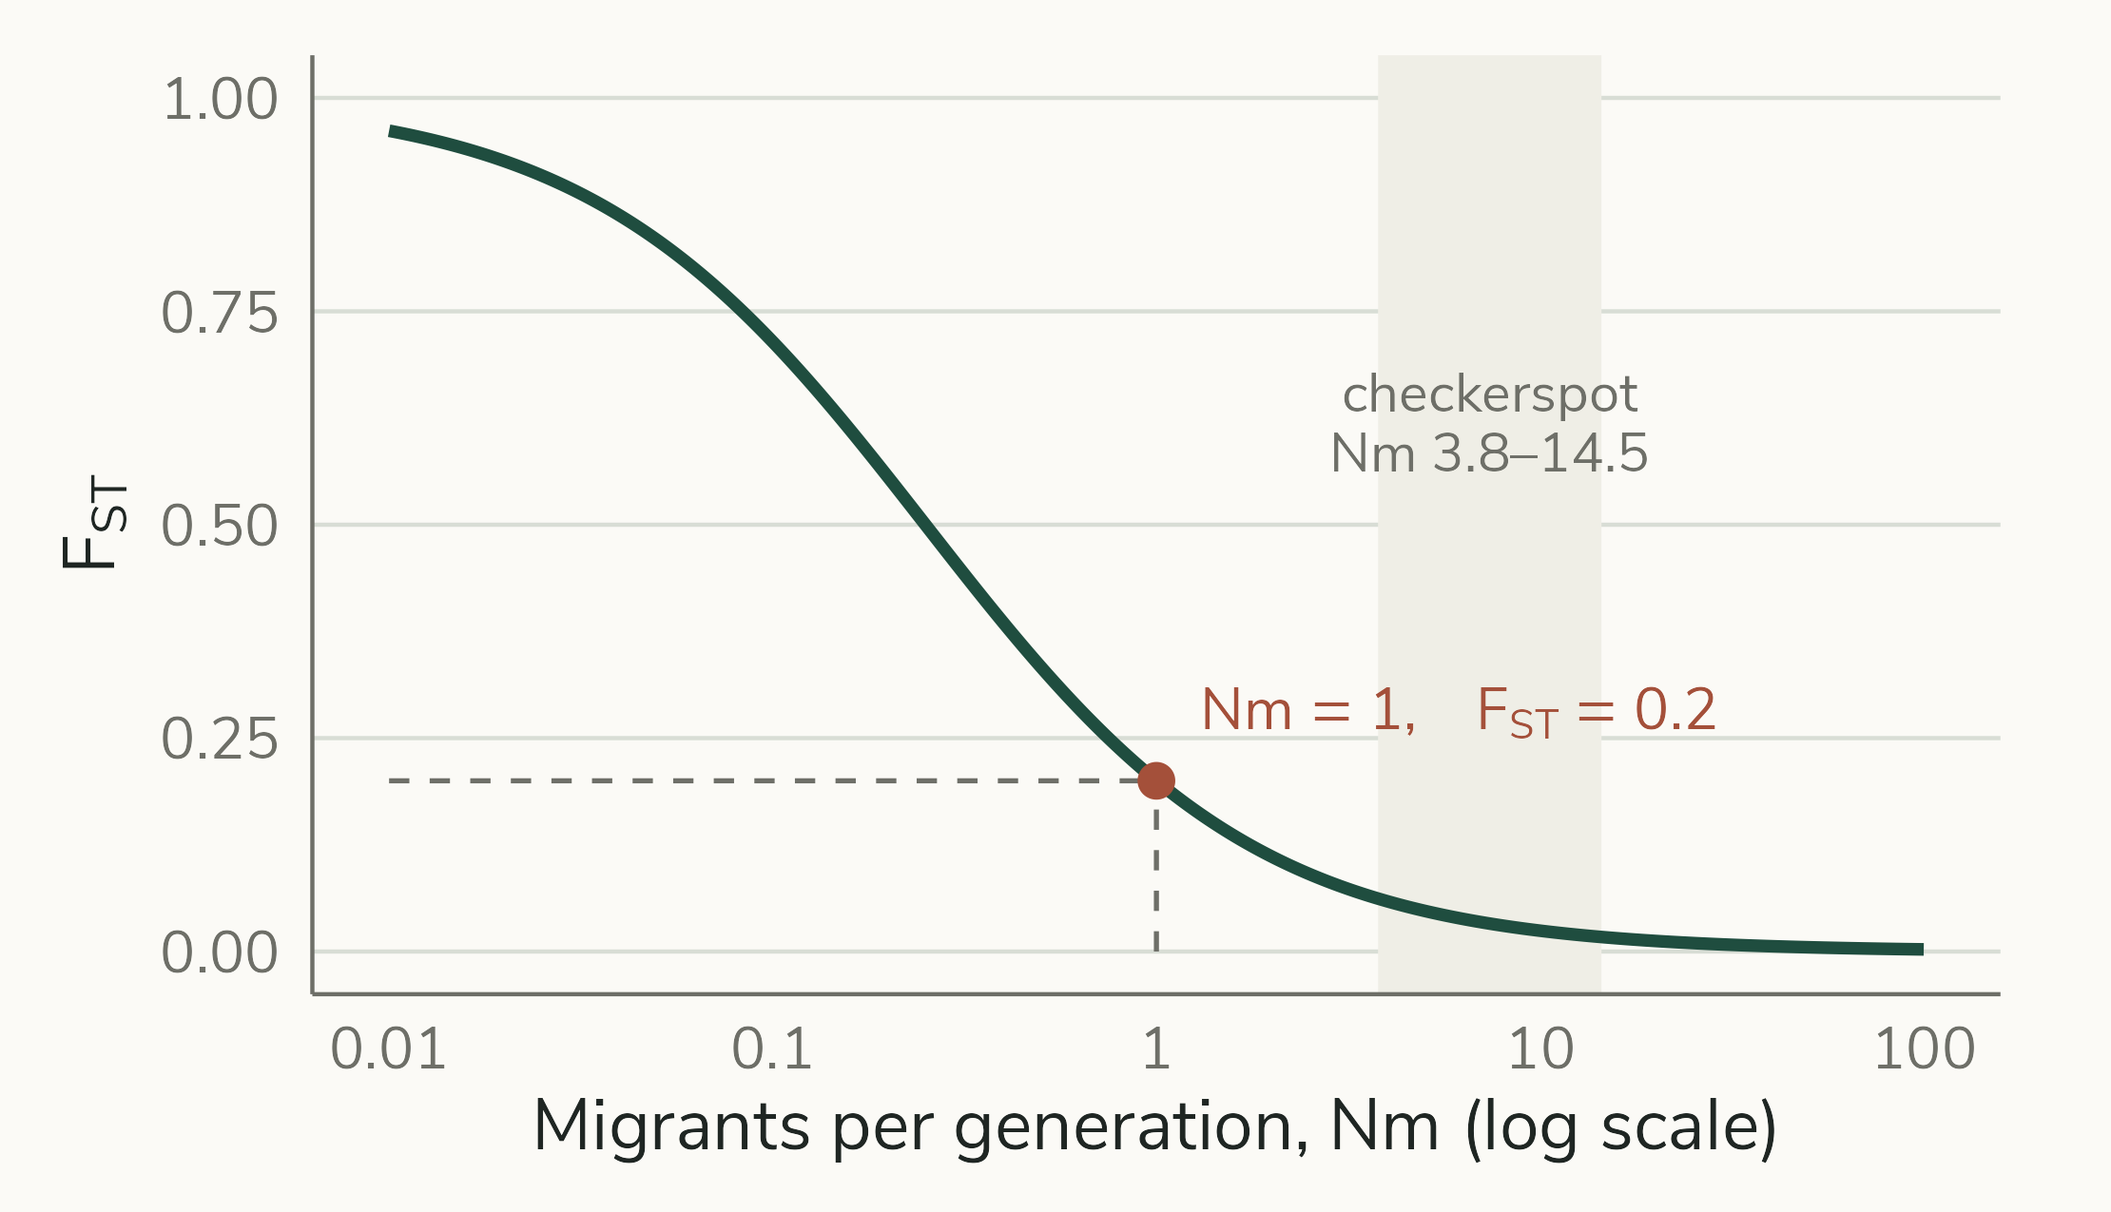
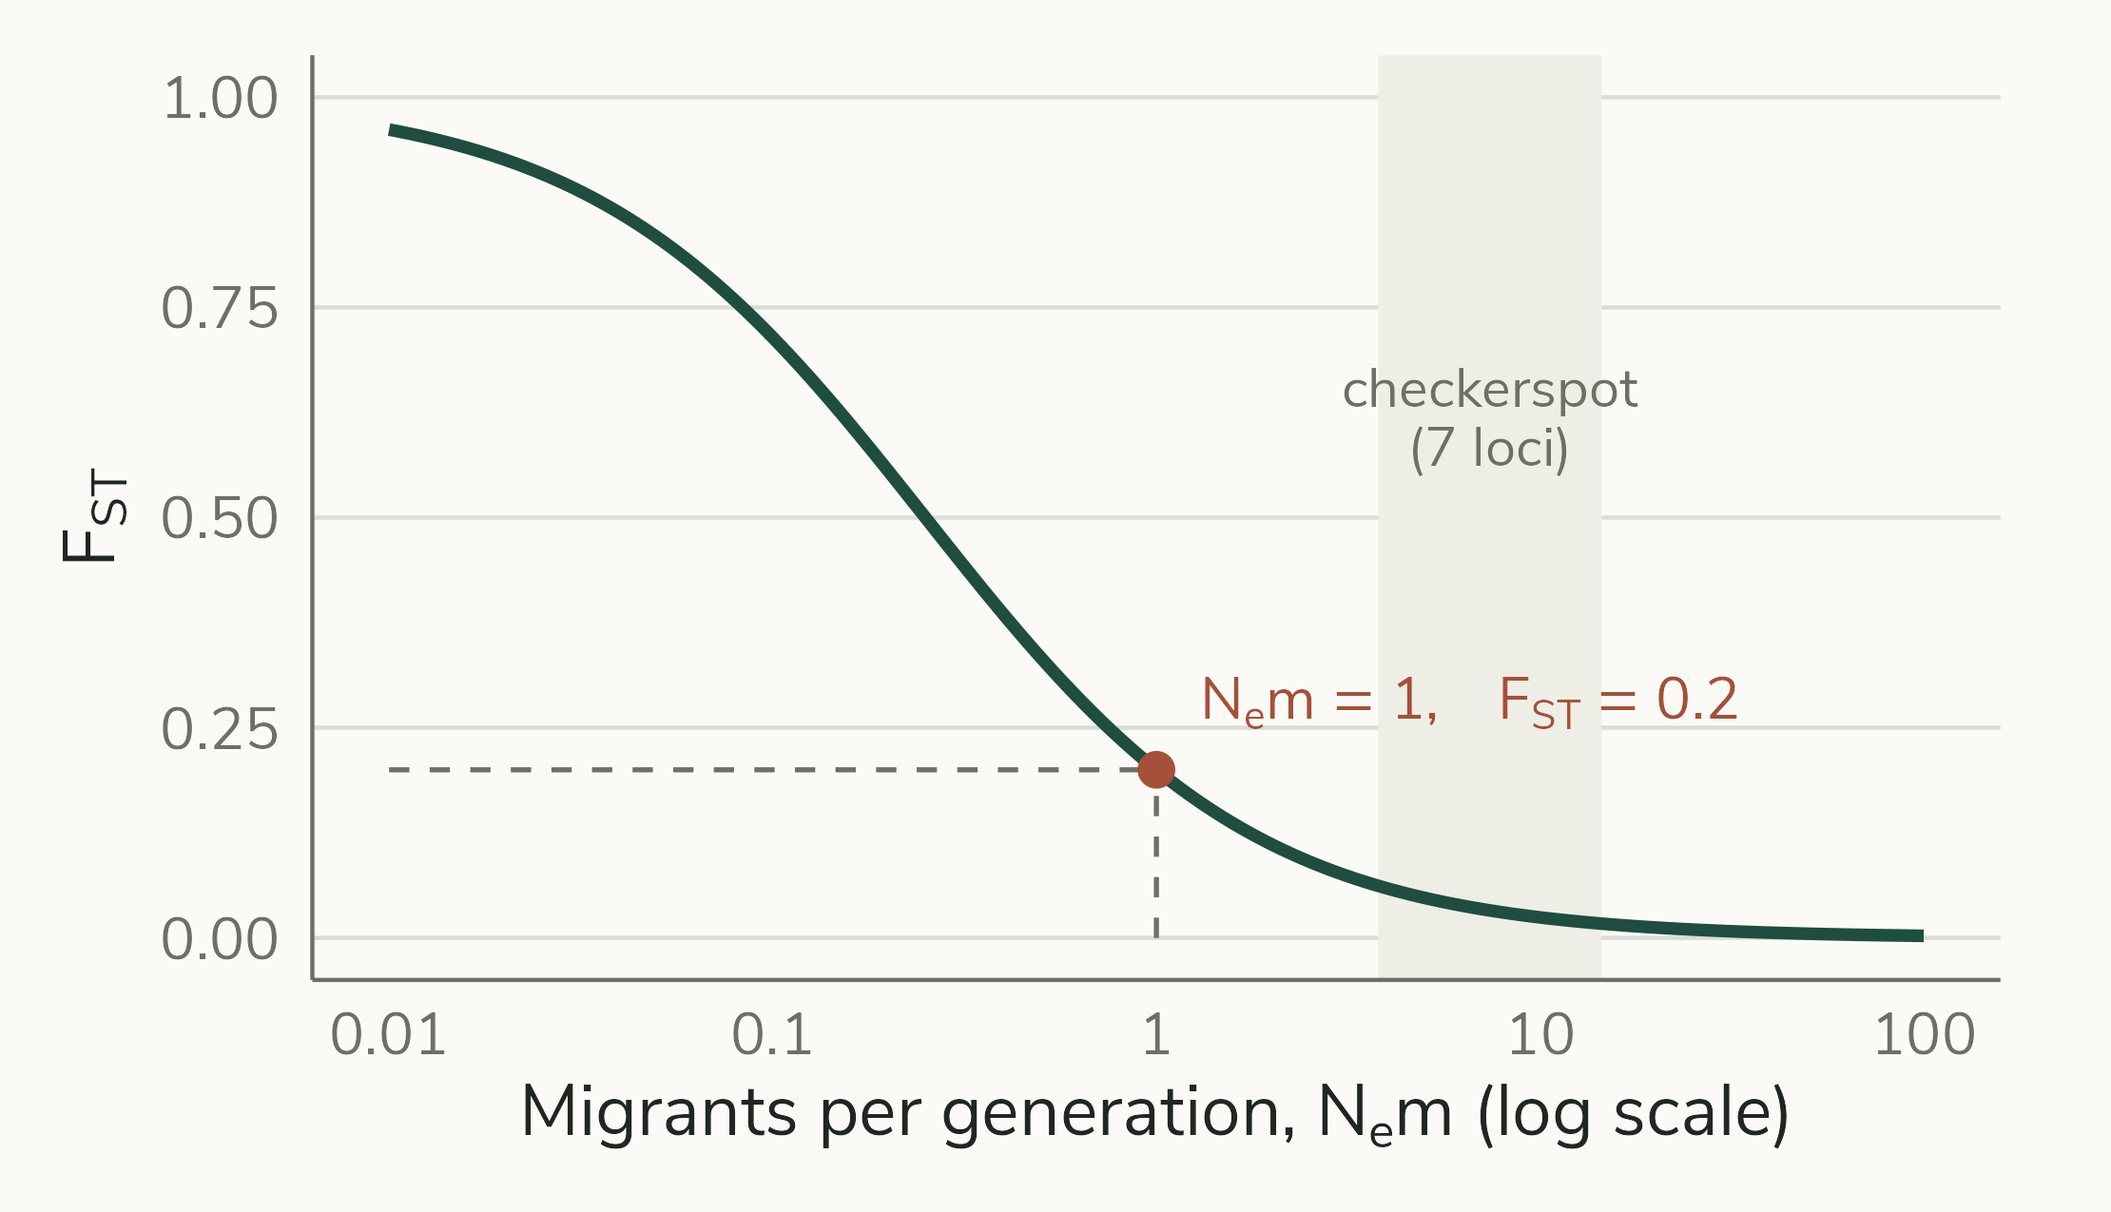
Lecture 12: moderate accuracy fixes; F-statistics example moved to self-study appendix
- Correct post-selection migration-selection equilibrium in notes and models.R
- Use N_e m notation (avoids clash with Neal's N_m for number of males)
- Remove misleading Nm conversion of the two-subpopulation example
- Restrict sqrt(m/s) to the recessive case in the summary
- Fix slide wording (islands converge, stepping-stone barrier) and notes
- Worked F-statistics example becomes a single self-explanatory appendix slide

Claude-Session: https://claude.ai/code/session_01VCei2kxsiPRLUTCQGBi3dy

diff --git a/lecture_figures/migration_gene_flow/build_deck.py b/lecture_figures/migration_gene_flow/build_deck.py
@@ -144,7 +144,7 @@ fill(ph(s, 103), [
 ], size=20)
 notes(s, """~1 min.
 Objective 1 = Section 01; objectives 2 and 3 = Section 02 (island models, migration-selection balance); objective 4 = Section 03 (stepping stones and clines); objective 5 and the drift part of objective 3 = Section 04.
-The textbook chapter (Neal Ch. 9) covers sections 01-03. Section 04 (F-statistics, F_ST and Nm) goes beyond Neal Ch. 9 but builds directly on the inbreeding coefficient F from the previous lecture (Neal 8.5) and on Neal 8.4.""")
+The textbook chapter (Neal Ch. 9) covers sections 01-03. Section 04 (F-statistics, F_ST and N_e m) goes beyond Neal Ch. 9 but builds directly on the inbreeding coefficient F from the previous lecture (Neal 8.5) and on Neal 8.4.""")
 
 # 3 Section 01
 s = new("Section")
@@ -164,7 +164,7 @@ fill(ph(s, 102), [
 notes(s, """~2 min.
 Ecologists ask why and how far animals move. Population geneticists ask a different question: do the movers breed where they arrive, so that their alleles enter another gene pool? (Neal Ch. 9 introduction.)
 Troast et al. (2016) PLoS ONE 11: e0148949 found very similar genetic profiles in globe skimmers from North America, South America and Asia, consistent with gene flow across oceans and a common worldwide gene pool.
-The map shows the species' distribution and the main inferred migration routes.
+The map shows the species' global distribution (it does not show migration routes).
 Images carried over from the previous version: photo of a male in flight and a distribution map (Wikimedia Commons, '1920px-Pantala_flavescens_distribution_map.svg.png'). Record photographer and licence (probably CC BY-SA) before sharing outside the course.""")
 
 # 5 Moving is not gene flow
@@ -193,7 +193,7 @@ fill(ph(s, 103), "The movement of alleles from one population into the gene pool
 fill(ph(s, 105), "Migration rate *m* = the proportion of a population's breeders that are immigrants each generation. Immigrants that do not breed contribute nothing.")
 notes(s, """~1 min.
 Neal 9.1: m only counts immigrants that successfully breed and mix their alleles into the native gene pool, which is why it is hard to measure directly.
-m is a proportion (e.g. 0.01 = 1% of breeders). Later we will use Nm, which is a number of migrants per generation. Keep the two apart.""")
+m is a proportion (e.g. 0.01 = 1% of breeders). Later we will use N_e m, which is a number of migrants per generation. Keep the two apart.""")
 
 # 7 Section 02
 s = new("Section")
@@ -282,11 +282,11 @@ picture(s, 101, FIG + "13_island_model.png")
 fill(ph(s, 103), "TAKEAWAY")
 fill(ph(s, 105), [
     "Four islands, *m* = 0.1, each receiving the mean of the others",
-    "All converge on the overall mean (0.5); faster with higher *m*",
+    "All converge on the overall mean (0.5)",
 ])
 notes(s, """~1.5 min.
 Reproduces Neal Fig. 9.1 and Appendix 9.1 (the spreadsheet simulation): starting frequencies 0.2, 0.4, 0.6, 0.8; m = 0.1; equal sizes.
-Neal's conclusion (9.2): gene flow makes populations genetically uniform, and this becomes more powerful as m increases.
+Neal's conclusion (9.2): gene flow makes populations genetically uniform, and this becomes more powerful as m increases (say this aloud; the figure shows only m = 0.1, and slide 10 showed the effect of m).
 Then the question Neal asks next: gene flow beats drift easily (we come back to this in Section 04), but can it beat selection?
 Figure: deterministic iteration of Eqn 9.1, scripts/13_island_model.R.""")
 
@@ -314,7 +314,7 @@ notes(s, """~3 min.
 Neal Exp. 9.10: loss by selection, s p q^2 / (1 - s q^2), balances gain by immigration, m(q_m - q). With q_m = 1 this simplifies to q-hat = sqrt(m/s) (Exp. 9.11).
 m = 0.01, s = 0.25: q-hat = sqrt(0.04) = 0.20, so 1% immigration maintains 20% wing alleles despite strong selection. Because wings are recessive, only q^2 = 4% of insects are winged: the allele hides in heterozygotes.
 m = 0.1: q-hat = 0.632; q^2 = 0.40.
-Accuracy note: Neal derives sqrt(m/s) by approximation. If the island is censused after immigration (selection, then immigration), sqrt(m/s) is exact; if censused after selection, q-hat = sqrt(m/(s(1+m))) (0.60 rather than 0.63 at m = 0.1). The conclusion is unchanged.
+Accuracy note: Neal reaches sqrt(m/s) by approximation, but it is exact if the island is counted after immigration (life cycle: selection, then immigration). Counted after selection instead, the equilibrium is (sqrt(m/s) - m)/(1 - m): 0.59 rather than 0.63 at m = 0.1, and 0.19 rather than 0.20 at m = 0.01. Solving Neal's unsimplified Exp. 9.10 gives 0.60 at m = 0.1. The conclusion is unchanged.
 Different dominance changes the numbers but not Neal's conclusion: gene flow is a powerful factor limiting differentiation by selection.
 Figure: analytical, checked by iterating the recursion; scripts/15_migration_selection.R.""")
 
@@ -346,7 +346,7 @@ picture(s, 101, FIG + "18_stepping_stone_cline.png")
 fill(ph(s, 103), "TAKEAWAY")
 fill(ph(s, 105), [
     "Equal migration: a straight-line gradient between the ends.",
-    "Low migration in one place (a barrier): a sudden step.",
+    "Low migration in one place (a barrier): a steep section.",
 ])
 notes(s, """~2 min.
 Reproduces Neal Fig. 9.4 and Appendix 9.2: nine populations, ends fixed at 0.9 and 0.1, m = 0.2 between neighbours; barrier = m reduced to 0.05 between populations 4-5 and 5-6. Shown at equilibrium.
@@ -444,9 +444,10 @@ fill(ph(s, 102), "F_{ST}, the fixation index")
 fill(ph(s, 103), "The proportion of the total expected heterozygosity that is due to allele-frequency differences among subpopulations.")
 fill(ph(s, 105), "F_{ST} = 0: subpopulations identical.  F_{ST} = 1: fixed for different alleles.  Pooling differentiated subpopulations creates a heterozygote deficit (the Wahlund effect), even with random mating in each.")
 notes(s, """~1 min.
-Common misconception: F_IT > 0 does not mean individuals mate with relatives. It can arise purely from structure: sampling the whole population as if it were one gene pool shows fewer heterozygotes than expected (Wahlund effect).""")
+Common misconception: F_IT > 0 does not mean individuals mate with relatives. It can arise purely from structure: sampling the whole population as if it were one gene pool shows fewer heterozygotes than expected (Wahlund effect).
+Tell students: a fully worked example of F_IS, F_ST and F_IT is on the last slide of the PDF, for self-study. It is not done in class.""")
 
-# 26 Worked example: task
+# Worked example (appendix slide, built at the end): table data and helper
 TABLE_HEAD = ["Subpopulation", "A_{1}A_{1}", "A_{1}A_{2}", "A_{2}A_{2}", "p", "q", "H_{S} = 2pq", "H_{I}"]
 TASK_ROWS = [["1", "0.01", "0.18", "0.81", "0.1", "0.9", "", ""],
              ["2", "0.49", "0.42", "0.09", "0.7", "0.3", "", ""],
@@ -478,40 +479,6 @@ def make_table(slide, rows, top=2.15):
     return tbl
 
 
-s = new("Title Only")
-fill(ph(s, 100), "Your turn: two subpopulations")
-make_table(s, TASK_ROWS)
-textbox(s, 0.8, 4.4, 11.5, 2.0, [
-    "**3 min · pairs.** Genotype frequencies for two subpopulations of one species:",
-    "1. Fill in H_{S} and H_{I} for each subpopulation, then the means.",
-    "2. Calculate H_{T} = 2p̄q̄ from the mean allele frequencies.",
-    "3. Calculate F_{IS}, F_{ST} and F_{IT}. What do they tell you?",
-], size=18)
-notes(s, """~3 min.
-Reminders: H_S for each subpopulation is 2pq at Hardy-Weinberg; H_I is the observed frequency of A1A2.
-p for subpopulation 1 = 0.01 + 0.18/2 = 0.1; subpopulation 2 = 0.49 + 0.42/2 = 0.7.
-(The previous version used decimal commas in this table; changed to decimal points to match the rest of the slides.)""")
-
-# 27 Worked example: answers
-s = new("Title Only")
-fill(ph(s, 100), "Worked example: the answers")
-make_table(s, ANS_ROWS)
-textbox(s, 0.8, 4.3, 6.2, 2.3, [
-    "H_{T} = 2 × 0.4 × 0.6 = **0.48**",
-    "F_{IS} = (0.30 − 0.30) / 0.30 = **0**",
-    "F_{ST} = (0.48 − 0.30) / 0.48 = **0.375**",
-    "F_{IT} = (0.48 − 0.30) / 0.48 = **0.375**",
-], size=18)
-textbox(s, 7.3, 4.3, 5.2, 2.3, [
-    "Each subpopulation is in Hardy–Weinberg proportions: no inbreeding within (F_{IS} = 0).",
-    "The whole heterozygote deficit lies between subpopulations: strong structure.",
-    "One locus cannot tell us whether drift or divergent selection caused it.",
-], size=16, color="1F4D3F")
-notes(s, """~2 min.
-Check: (1 - F_IT) = (1 - 0)(1 - 0.375) = 0.625, so F_IT = 0.375. Consistent.
-Interpretation: pooled, the population has a heterozygote deficit (0.30 observed versus 0.48 expected), entirely due to differentiation between subpopulations (Wahlund effect), not to inbreeding.
-Correction to previous version: its notes said this 'can't be selection because we are at HWE'. Hardy-Weinberg proportions within subpopulations do not rule out selection: divergent selection can create allele-frequency differences while each subpopulation remains in HW proportions at the census. Telling drift from selection needs many loci (selection affects particular loci; drift affects all) or other evidence.""")
-
 # 28 FST to Nm
 s = new("Title, Bullets & Photo")
 fill(ph(s, 100), "From F_{ST} to migrants per generation")
@@ -519,15 +486,16 @@ picture(s, 101, FIG + "28_fst_nm.png")
 fill(ph(s, 103), "TAKEAWAY")
 fill(ph(s, 105), [
     "Wright's island model:",
-    "F_{ST} ≈ 1 / (4*Nm* + 1)",
-    "*Nm* ≈ (1/F_{ST} − 1) / 4",
-    "*Nm* = number of migrants, not a proportion",
+    "F_{ST} ≈ 1 / (4N_{e}*m* + 1)",
+    "N_{e}*m* ≈ (1/F_{ST} − 1) / 4",
+    "N_{e}*m* = number of migrants, not a proportion",
 ])
 notes(s, """~2.5 min.
 Sewall Wright (spelling corrected from 'Sewell' in the previous version) derived F_ST = 1/(4Nm + 1) for an island model at equilibrium between drift and gene flow.
-N = effective size of each subpopulation, m = migration rate (a proportion), so Nm = number of migrants per generation. Correction to previous version: it described Nm as 'the proportion of individuals that move'.
-Worked check: Nm = 1 gives F_ST = 1/5 = 0.2. F_ST = 0.375 (our worked example) implies Nm = (1/0.375 - 1)/4 = 0.42.
-The relationship is flat for F_ST below about 0.1, so small errors in F_ST give large errors in Nm.
+N_e = effective size of each subpopulation, m = migration rate (a proportion), so N_e m = number of migrants per generation. Written N_e m (Neal Eqn 8.4) rather than Nm, because in Neal Exp. 8.1 N_m means the number of males. Correction to previous version: it described Nm as 'the proportion of individuals that move'.
+Worked check: N_e m = 1 gives F_ST = 1/5 = 0.2.
+Do not apply the formula to the two-subpopulation worked example at the end of the slides (F_ST = 0.375, one locus): it assumes many subpopulations. Naively it gives N_e m = 0.42; with the finite-island correction F_ST = 1/(1 + 4 N_e m (n/(n - 1))^2) for n = 2 it gives about 0.10. A useful example of misuse if a student asks.
+The relationship is flat for F_ST below about 0.1, so small errors in F_ST give large errors in N_e m.
 Figure: analytical, scripts/28_fst_nm.R.""")
 
 # 29 Big fact
@@ -538,10 +506,10 @@ notes(s, """~1 min.
 Neal 8.4: changes in allele frequency are dominated by drift only if N_e m is much less than 1. With N_e = 100 and m = 0.01, N_e m = 1 and allele frequencies follow those of the migrants' source.
 The point: because drift is weaker in large populations by exactly as much as a given m represents more migrants, what matters is the NUMBER of migrants, not the proportion.
 Say aloud, because students will see it in the set text: Neal (8.4) says a single migrant every fourth generation is enough to prevent fixation. Most texts use about one migrant per generation (e.g. Mills and Allendorf 1996, Conservation Biology). Both make the point that very few migrants are needed; one per generation is the safer figure.
-Checked with Wright's equilibrium distribution of allele frequencies among islands (beta distribution with parameters 4Nm q-bar and 4Nm(1 - q-bar)):
-- Nm = 1, mean q = 0.5: essentially no populations near fixation for either allele; F_ST = 0.2.
-- Nm = 0.25 (Neal's one every fourth generation), mean q = 0.5: about 6% of populations near fixation (q < 0.01) for each allele; F_ST = 0.5.
-- Nm = 1 but a rare allele (mean q = 0.1): about 29% of populations have q < 0.01, but almost none are fixed for it. So 'prevents fixation for different alleles' is the accurate claim; rare alleles can still be locally lost.
+Checked with Wright's equilibrium distribution of allele frequencies among islands (beta distribution with parameters 4 N_e m q-bar and 4 N_e m (1 - q-bar)):
+- N_e m = 1, mean q = 0.5: essentially no populations near fixation for either allele; F_ST = 0.2.
+- N_e m = 0.25 (Neal's one every fourth generation), mean q = 0.5: about 6% of populations near fixation (q < 0.01) for each allele; F_ST = 0.5.
+- N_e m = 1 but a rare allele (mean q = 0.1): about 29% of populations have q < 0.01, but almost none are fixed for it. So 'prevents fixation for different alleles' is the accurate claim; rare alleles can still be locally lost.
 F_ST = 0.2 is substantial differentiation (Wright called 0.15 to 0.25 'great'), so one migrant per generation limits divergence; it does not abolish it.
 Applications: genetic rescue of small, isolated populations and managed exchange between zoo populations.""")
 
@@ -566,9 +534,9 @@ fill(ph(s, 100), "Checkerspot: genes versus observations")
 picture(s, 101, MED + "s37_653.png")
 fill(ph(s, 102), [
     "Edith's checkerspot (*Euphydryas editha*): 21 populations across central California",
-    "Seven loci: F_{ST} = 0.017 to 0.062, so *Nm* ≈ 3.8 to 14.5 (mean 7.8)",
+    "Seven loci: F_{ST} = 0.017 to 0.062, so N_{e}*m* ≈ 3.8 to 14.5 (mean 7.8)",
     "One locus (*Hk*): F_{ST} = 0.29",
-    "Mark–recapture between nearby populations: *Nm* ≈ 0.1",
+    "Mark–recapture between nearby populations: N_{e}*m* ≈ 0.1",
     "Data: McKechnie et al. (1975); analysis: Slatkin (1987)",
 ], size=20)
 _src = ph(s, 102).text_frame.paragraphs[-1]
@@ -607,26 +575,48 @@ fill(ph(s, 101), "Key points")
 fill(ph(s, 102), [
     "Gene flow needs migrants that breed; movement alone is not enough.",
     "Gene flow pulls populations together: Δq = *m*(q_{m} − q_{0}).",
-    "It opposes drift (≈ 1 migrant per generation) and selection (q ≈ √(*m*/*s*)).",
+    "It opposes drift (≈ 1 migrant per generation) and selection (recessive allele: q ≈ √(*m*/*s*)).",
     "Selection varying in space plus gene flow gives clines; barriers steepen them.",
-    "F_{ST} measures differentiation; converting it to *Nm* needs strong assumptions.",
+    "F_{ST} measures differentiation; converting it to N_{e}*m* needs strong assumptions.",
 ], size=17)
 fill(ph(s, 106), [
     "Neal Ch. 9 and 8.4",
     "Neal 9.4: problems 1–3",
+    "F-statistics worked example: last slide",
     "Practical: neutral or adaptive?",
 ], size=15)
 notes(s, """~1.5 min.
 Back to the guiding question: very few migrants are needed to stop drift separating populations, but local adaptation can persist against much higher gene flow when selection is strong; the outcome depends on m relative to s.
 Practical (second 45-minute slot): https://jonesor.github.io/BB512_Book/neutral-or-adaptive-evolution-in-humans-what-drives-evolution-of-our-traits.html
 Bridge to the practical: which human traits would gene flow homogenise among populations, and which are held apart by selection in different environments (e.g. skin pigmentation and UV)?
-Answers to Neal problems: 1. m = 1 - (0.118/0.176)^(1/10) = 0.039 (with q_m = 0); 2. after five generations each population moves towards the mean of the other three (iterate Eqn 9.1 or use the spreadsheet in Appendix 9.1); 3. about 10 generations (done in class).""")
+Answers to Neal problems: 1. m = 1 - (0.118/0.176)^(1/10) = 0.039 (with q_m = 0); 2. after five generations: 0.317, 0.529, 0.742, 0.812 if q_m is recalculated every generation (Appendix 9.1 spreadsheet); 0.321, 0.530, 0.740, 0.810 with Neal's shortcut of holding q_m fixed (Eqn 9.2, as in Example 9.3); 3. about 10 generations (done in class).""")
 
 # 34 Quote
 s = new("Quote")
 fill(ph(s, 101), "Before I came here I was confused about this subject. Having listened to your lecture I am still confused. But on a higher level.")
 fill(ph(s, 103), "ATTRIBUTED TO ENRICO FERMI")
 notes(s, "Kept from the previous version. Widely attributed to Fermi; no primary source is known, so 'attributed to' is used rather than a definite attribution.")
+
+# 35 Appendix: worked example (self-study, not done in class)
+s = new("Title Only")
+fill(ph(s, 100), "Worked example (self-study): F-statistics")
+make_table(s, ANS_ROWS, top=1.95)
+textbox(s, 0.8, 4.05, 6.55, 2.6, [
+    "1. Allele frequency: p = f(A_{1}A_{1}) + ½ f(A_{1}A_{2}), e.g. 0.01 + 0.09 = 0.1",
+    "2. Each subpopulation: H_{S} = 2pq (expected); H_{I} = f(A_{1}A_{2}) (observed). Means: 0.30 and 0.30",
+    "3. Pooled: H_{T} = 2p̄q̄ = 2 × 0.4 × 0.6 = **0.48**",
+    "4. F_{IS} = (0.30 − 0.30) / 0.30 = **0**;  F_{ST} = (0.48 − 0.30) / 0.48 = **0.375**;  F_{IT} = (0.48 − 0.30) / 0.48 = **0.375**",
+], size=15)
+textbox(s, 7.65, 4.05, 4.9, 2.6, [
+    "**What it means**",
+    "Each subpopulation is in Hardy–Weinberg proportions, so there is no inbreeding within them (F_{IS} = 0).",
+    "The heterozygote deficit in the pooled sample (0.30 vs 0.48) is entirely due to differences between subpopulations: the Wahlund effect.",
+    "One locus cannot tell us whether drift or divergent selection caused the difference.",
+], size=14, color="1F4D3F")
+notes(s, """Appendix slide for self-study in the PDF; not presented in class. Pointed to from the F_ST key concept and the summary.
+Check: (1 - F_IT) = (1 - F_IS)(1 - F_ST) = (1 - 0)(1 - 0.375) = 0.625, so F_IT = 0.375. Consistent.
+Hardy-Weinberg proportions within subpopulations do not rule out selection: divergent selection can create allele-frequency differences while each subpopulation remains in HW proportions. Telling drift from selection needs many loci (selection affects particular loci, drift affects all) or other evidence.
+Do not convert this F_ST to N_e m with Wright's formula: it assumes many subpopulations (see notes on the F_ST to migrants slide).""")
 
 prs.save(OUT)
 print("saved", OUT, len(prs.slides), "slides")
